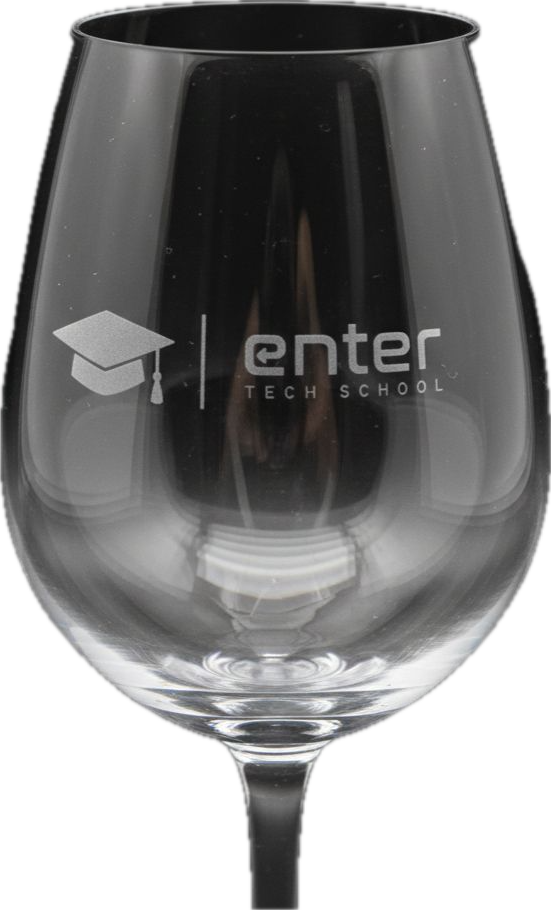
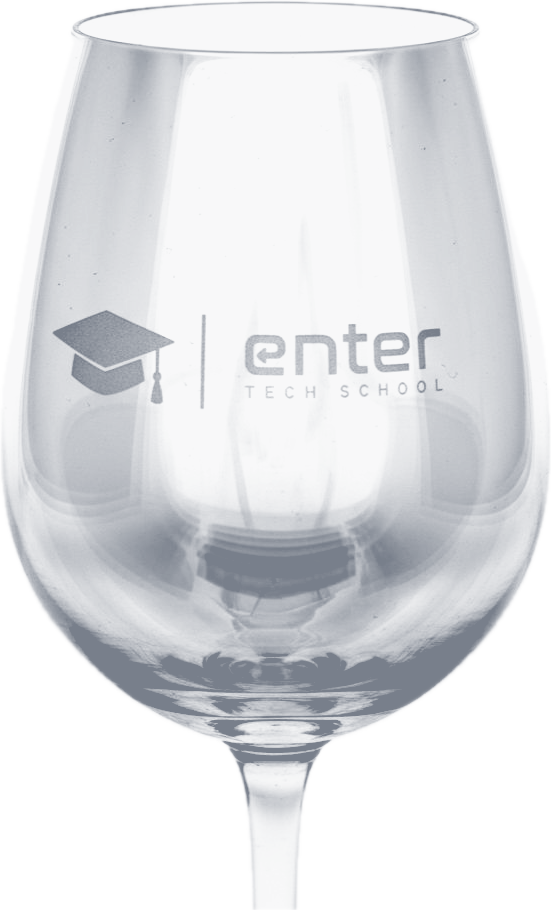
Merch sin fondo (copa como vidrio transparente); capturas completas en el navegador

diff --git a/index.html b/index.html
@@ -342,7 +342,7 @@ b,strong,h1,h2,h3,dt,th{font-weight:600}
 .mk-nav .mk-bar{display:flex;align-items:center;gap:6px;height:28px;padding:0 12px;background:#f1f1f3;border-bottom:1px solid #e4e4e8;border-radius:12px 12px 0 0}
 .mk-nav .mk-bar i{width:9px;height:9px;border-radius:50%;background:#ff5f57}.mk-nav .mk-bar i:nth-child(2){background:#febc2e}.mk-nav .mk-bar i:nth-child(3){background:#28c840}
 .mk-nav .mk-bar b{margin-left:10px;flex:1;max-width:70%;height:17px;border-radius:5px;background:#fff;font:400 10px/17px -apple-system,Helvetica,sans-serif;color:#888;padding-left:8px;white-space:nowrap;overflow:hidden;text-overflow:ellipsis}
-.mk-nav .mk-pant{border-radius:0 0 12px 12px;max-height:380px}
+.mk-nav .mk-pant{border-radius:0 0 12px 12px}
 /* celular */
 .mk-tel .ap-img{width:min(220px,62%);padding:9px;border-radius:34px;background:#141416;box-shadow:0 34px 50px -22px rgba(0,0,0,.55),inset 0 0 0 2px #2c2c2e}
 .mk-tel .mk-pant{border-radius:26px;aspect-ratio:9/19.5;background:#000}
@@ -358,7 +358,7 @@ b,strong,h1,h2,h3,dt,th{font-weight:600}
 .mk-hoja .ap-img{width:78%;background:#fff;padding:10px;border-radius:4px;box-shadow:0 26px 40px -22px rgba(0,0,0,.4),0 0 0 1px rgba(0,0,0,.05)}
 .mk-hoja .ap-img::before,.mk-hoja .ap-img::after{content:"";position:absolute;inset:0;background:#fff;border-radius:4px;box-shadow:0 10px 24px -14px rgba(0,0,0,.3),0 0 0 1px rgba(0,0,0,.05);z-index:-1}
 .mk-hoja .ap-img::before{transform:rotate(-4deg) translate(-10px,6px)}.mk-hoja .ap-img::after{transform:rotate(3deg) translate(10px,8px)}
-.mk-hoja .mk-pant{max-height:420px}
+
 /* polaroid */
 .mk-polaroid .ap-img{width:74%;background:#fff;padding:12px 12px 46px;box-shadow:0 26px 40px -20px rgba(0,0,0,.45),0 0 0 1px rgba(0,0,0,.04)}
 .mk-polaroid .mk-pant{aspect-ratio:1;}.mk-polaroid .mk-pant img{height:100%;object-fit:cover}
@@ -379,13 +379,13 @@ b,strong,h1,h2,h3,dt,th{font-weight:600}
 .giro{margin:0}
 .giro-esc{position:relative;height:440px;border-radius:24px;perspective:1100px;display:grid;place-items:center;cursor:grab;overflow:hidden;touch-action:pan-y;outline:none}
 .giro-esc:active{cursor:grabbing}.giro-esc:focus-visible{box-shadow:0 0 0 3px #3f97c9}
-.giro.claro .giro-esc{background:radial-gradient(ellipse at 50% 35%,#ffffff 0%,#e9eef3 60%,#d6dde5 100%)}
-.giro.oscuro .giro-esc{background:radial-gradient(ellipse at 50% 30%,#3a3a42 0%,#16161a 60%,#0b0b0d 100%)}
+.giro.claro .giro-esc,.giro.oscuro .giro-esc{background:none}
+
 .giro-obj{position:relative;width:72%;height:80%;transform-style:preserve-3d;transform:rotateY(var(--ang,0deg));will-change:transform}
-.cara{position:absolute;inset:0;width:100%;height:100%;object-fit:contain;backface-visibility:hidden;-webkit-backface-visibility:hidden;user-select:none;filter:drop-shadow(0 18px 22px rgba(0,0,0,.28))}
+.cara{position:absolute;inset:0;width:100%;height:100%;object-fit:contain;backface-visibility:hidden;-webkit-backface-visibility:hidden;user-select:none}
 .cara.atras{transform:rotateY(180deg)}.cara.atras.espejo{transform:rotateY(180deg) scaleX(-1)}
 .giro-sombra{position:absolute;bottom:7%;left:50%;width:46%;height:16px;border-radius:50%;background:radial-gradient(rgba(0,0,0,.35),transparent 70%);transform:translateX(-50%) scaleX(var(--sx,1))}
-.giro.oscuro .giro-sombra{background:radial-gradient(rgba(255,255,255,.12),transparent 70%)}
+
 .giro figcaption{font-size:.84rem;color:var(--gris);margin-top:10px;text-align:center}
 .apoyo-sec h3{font-size:.78rem;letter-spacing:.12em;text-transform:uppercase;color:var(--gris);font-weight:600;margin-bottom:18px}
 .fan-hint{font-size:.8rem;color:var(--gris);margin-top:4px}
@@ -752,7 +752,7 @@ const P = {
     portada: "img/p/enter-merch/poleron.webp",
     resumen: "Recuerdos para la comunidad de egresados.",
     hice: ["Diseñé el polerón Alumni.", "Copa grabada con el logo de egresados para la ceremonia de graduación."],
-    giro: [["img/p/enter-merch/poleron-frente.png", "img/p/enter-merch/poleron-espalda.png", "Polerón Alumni", "claro"], ["img/p/enter-merch/copa.png", "", "Copa grabada", "oscuro"]],
+    giro: [["img/p/enter-merch/poleron-frente.png", "img/p/enter-merch/poleron-espalda.png", "Polerón Alumni", "claro"], ["img/p/enter-merch/copa.png?v=2", "", "Copa grabada", "oscuro"]],
     imgs: [["img/p/enter-merch/poleron.webp", "Polerón Alumni para egresados"], ["img/p/enter-merch/copa.webp", "Copa grabada para la graduación"]]},
   "axel": {titulo: "Media kit para un creador de contenido de tecnología", marca: "Axel Mateo", tipo: "Freelance", anio: "2026",
     portada: "img/casos/axel-hero.webp",
